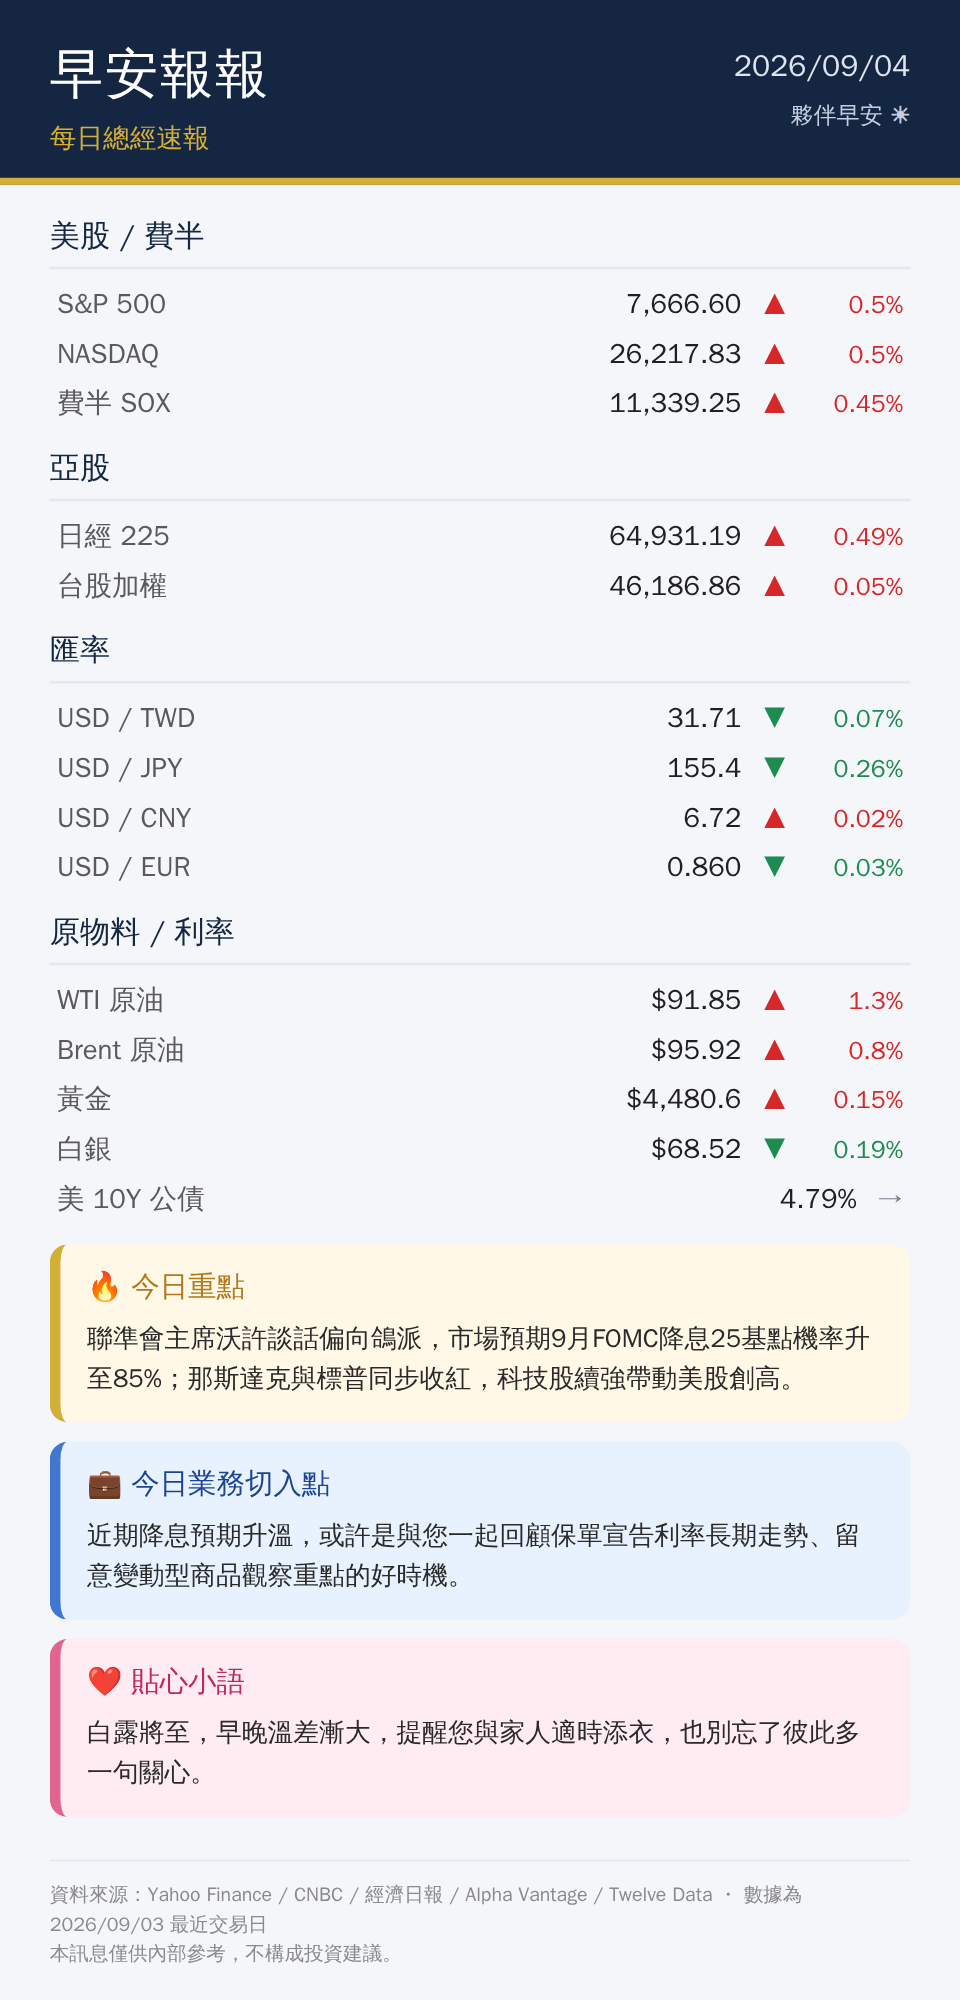
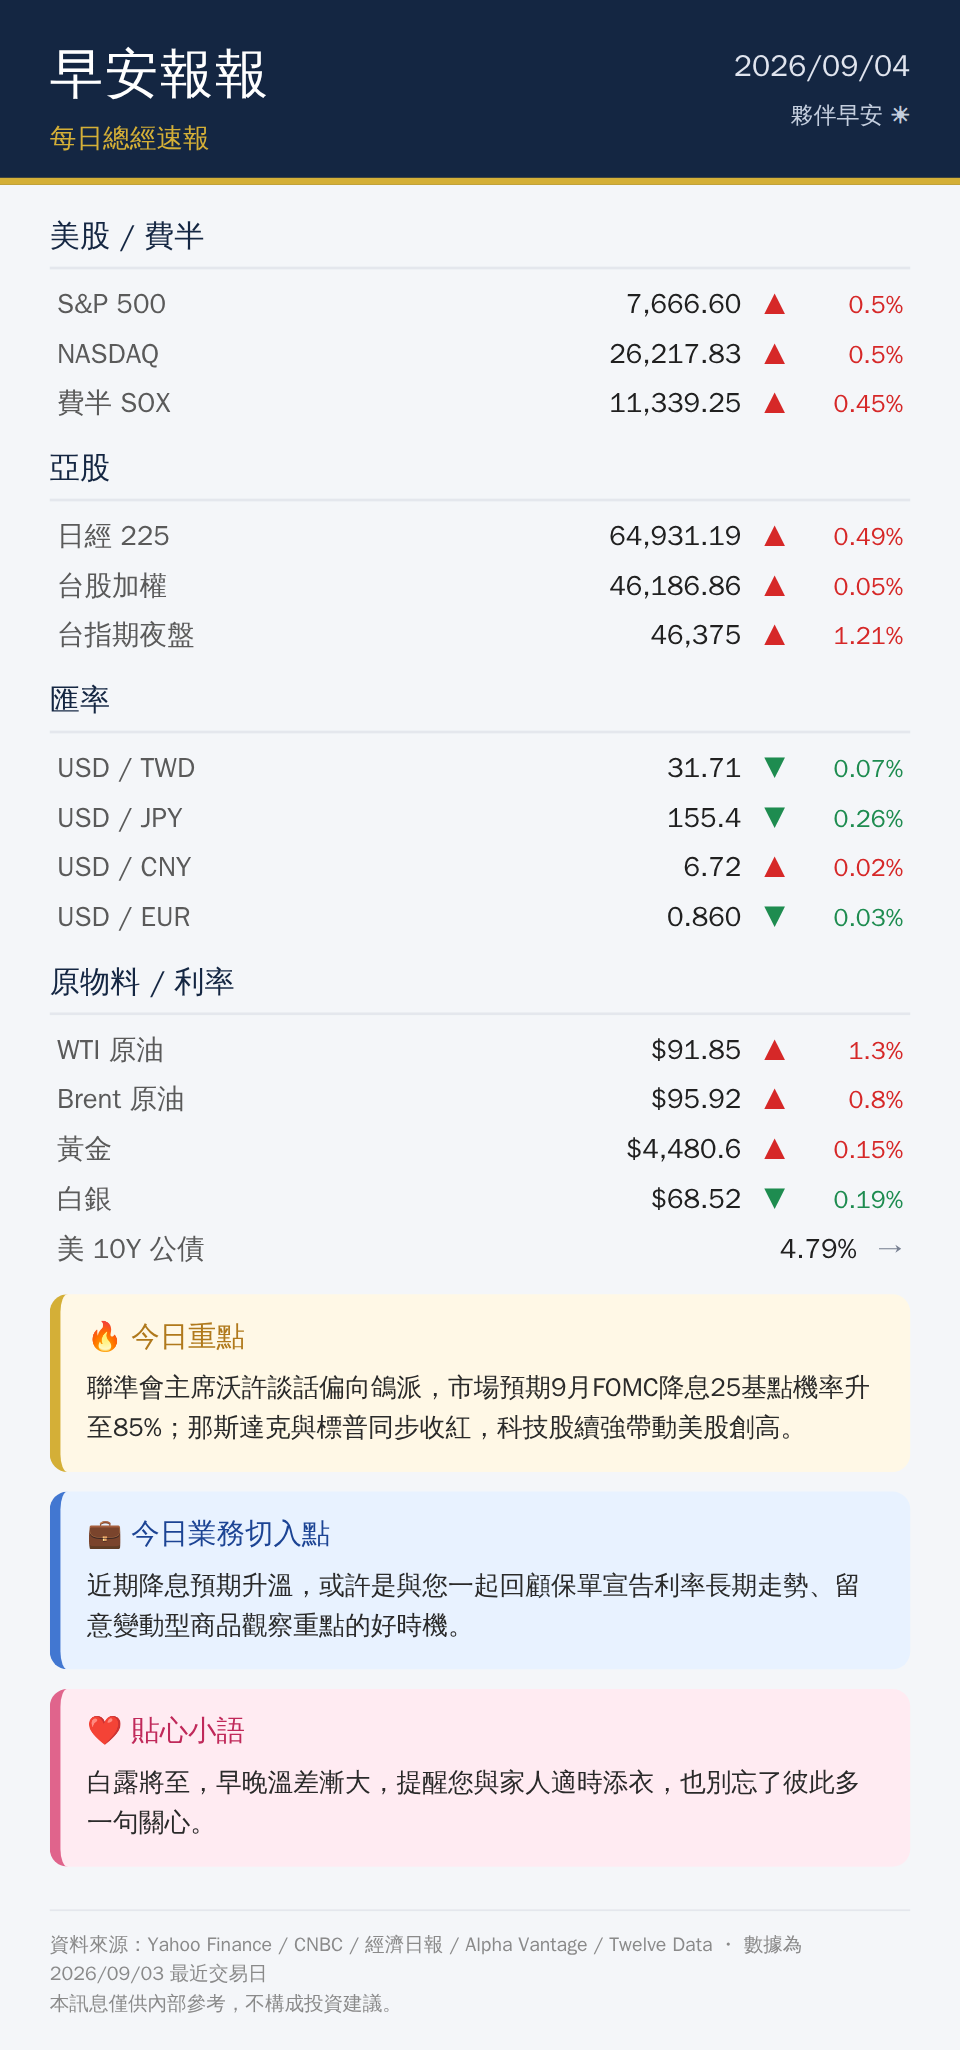
Add TAIEX futures night session to 2026-09-04 report
Claude-Session: https://claude.ai/code/session_01MHiWsRAf5V7KyMx4arzPxT

diff --git a/reports/2026-09-04/card.html b/reports/2026-09-04/card.html
@@ -43,6 +43,6 @@
     <div class="brand-sub">每日總經速報</div>
     <div class="hdr-right"><div class="hdr-date">2026/09/04</div><div class="hdr-hi">夥伴早安 ☀</div></div>
   </div>
-  <div class="body"><div class="sec"><div class="sec-title">美股 / 費半</div><div class="row"><span class="label">S&amp;P 500</span><span class="val">7,666.60</span><span class="arr" style="color:#d62828">▲</span><span class="pct" style="color:#d62828">0.5%</span></div><div class="row"><span class="label">NASDAQ</span><span class="val">26,217.83</span><span class="arr" style="color:#d62828">▲</span><span class="pct" style="color:#d62828">0.5%</span></div><div class="row"><span class="label">費半 SOX</span><span class="val">11,339.25</span><span class="arr" style="color:#d62828">▲</span><span class="pct" style="color:#d62828">0.45%</span></div></div><div class="sec"><div class="sec-title">亞股</div><div class="row"><span class="label">日經 225</span><span class="val">64,931.19</span><span class="arr" style="color:#d62828">▲</span><span class="pct" style="color:#d62828">0.49%</span></div><div class="row"><span class="label">台股加權</span><span class="val">46,186.86</span><span class="arr" style="color:#d62828">▲</span><span class="pct" style="color:#d62828">0.05%</span></div></div><div class="sec"><div class="sec-title">匯率</div><div class="row"><span class="label">USD / TWD</span><span class="val">31.71</span><span class="arr" style="color:#1e8c50">▼</span><span class="pct" style="color:#1e8c50">0.07%</span></div><div class="row"><span class="label">USD / JPY</span><span class="val">155.4</span><span class="arr" style="color:#1e8c50">▼</span><span class="pct" style="color:#1e8c50">0.26%</span></div><div class="row"><span class="label">USD / CNY</span><span class="val">6.72</span><span class="arr" style="color:#d62828">▲</span><span class="pct" style="color:#d62828">0.02%</span></div><div class="row"><span class="label">USD / EUR</span><span class="val">0.860</span><span class="arr" style="color:#1e8c50">▼</span><span class="pct" style="color:#1e8c50">0.03%</span></div></div><div class="sec"><div class="sec-title">原物料 / 利率</div><div class="row"><span class="label">WTI 原油</span><span class="val">$91.85</span><span class="arr" style="color:#d62828">▲</span><span class="pct" style="color:#d62828">1.3%</span></div><div class="row"><span class="label">Brent 原油</span><span class="val">$95.92</span><span class="arr" style="color:#d62828">▲</span><span class="pct" style="color:#d62828">0.8%</span></div><div class="row"><span class="label">黃金</span><span class="val">$4,480.6</span><span class="arr" style="color:#d62828">▲</span><span class="pct" style="color:#d62828">0.15%</span></div><div class="row"><span class="label">白銀</span><span class="val">$68.52</span><span class="arr" style="color:#1e8c50">▼</span><span class="pct" style="color:#1e8c50">0.19%</span></div><div class="row"><span class="label">美 10Y 公債</span><span class="val">4.79%</span><span class="arr" style="color:#788092">→</span></div></div><div class="box box-gold"><div class="box-title">🔥 今日重點</div><div class="box-body">聯準會主席沃許談話偏向鴿派，市場預期9月FOMC降息25基點機率升至85%；那斯達克與標普同步收紅，科技股續強帶動美股創高。</div></div><div class="box box-blue"><div class="box-title">💼 今日業務切入點</div><div class="box-body">近期降息預期升溫，或許是與您一起回顧保單宣告利率長期走勢、留意變動型商品觀察重點的好時機。</div></div><div class="box box-pink"><div class="box-title">❤ 貼心小語</div><div class="box-body">白露將至，早晚溫差漸大，提醒您與家人適時添衣，也別忘了彼此多一句關心。</div></div></div>
+  <div class="body"><div class="sec"><div class="sec-title">美股 / 費半</div><div class="row"><span class="label">S&amp;P 500</span><span class="val">7,666.60</span><span class="arr" style="color:#d62828">▲</span><span class="pct" style="color:#d62828">0.5%</span></div><div class="row"><span class="label">NASDAQ</span><span class="val">26,217.83</span><span class="arr" style="color:#d62828">▲</span><span class="pct" style="color:#d62828">0.5%</span></div><div class="row"><span class="label">費半 SOX</span><span class="val">11,339.25</span><span class="arr" style="color:#d62828">▲</span><span class="pct" style="color:#d62828">0.45%</span></div></div><div class="sec"><div class="sec-title">亞股</div><div class="row"><span class="label">日經 225</span><span class="val">64,931.19</span><span class="arr" style="color:#d62828">▲</span><span class="pct" style="color:#d62828">0.49%</span></div><div class="row"><span class="label">台股加權</span><span class="val">46,186.86</span><span class="arr" style="color:#d62828">▲</span><span class="pct" style="color:#d62828">0.05%</span></div><div class="row"><span class="label">台指期夜盤</span><span class="val">46,375</span><span class="arr" style="color:#d62828">▲</span><span class="pct" style="color:#d62828">1.21%</span></div></div><div class="sec"><div class="sec-title">匯率</div><div class="row"><span class="label">USD / TWD</span><span class="val">31.71</span><span class="arr" style="color:#1e8c50">▼</span><span class="pct" style="color:#1e8c50">0.07%</span></div><div class="row"><span class="label">USD / JPY</span><span class="val">155.4</span><span class="arr" style="color:#1e8c50">▼</span><span class="pct" style="color:#1e8c50">0.26%</span></div><div class="row"><span class="label">USD / CNY</span><span class="val">6.72</span><span class="arr" style="color:#d62828">▲</span><span class="pct" style="color:#d62828">0.02%</span></div><div class="row"><span class="label">USD / EUR</span><span class="val">0.860</span><span class="arr" style="color:#1e8c50">▼</span><span class="pct" style="color:#1e8c50">0.03%</span></div></div><div class="sec"><div class="sec-title">原物料 / 利率</div><div class="row"><span class="label">WTI 原油</span><span class="val">$91.85</span><span class="arr" style="color:#d62828">▲</span><span class="pct" style="color:#d62828">1.3%</span></div><div class="row"><span class="label">Brent 原油</span><span class="val">$95.92</span><span class="arr" style="color:#d62828">▲</span><span class="pct" style="color:#d62828">0.8%</span></div><div class="row"><span class="label">黃金</span><span class="val">$4,480.6</span><span class="arr" style="color:#d62828">▲</span><span class="pct" style="color:#d62828">0.15%</span></div><div class="row"><span class="label">白銀</span><span class="val">$68.52</span><span class="arr" style="color:#1e8c50">▼</span><span class="pct" style="color:#1e8c50">0.19%</span></div><div class="row"><span class="label">美 10Y 公債</span><span class="val">4.79%</span><span class="arr" style="color:#788092">→</span></div></div><div class="box box-gold"><div class="box-title">🔥 今日重點</div><div class="box-body">聯準會主席沃許談話偏向鴿派，市場預期9月FOMC降息25基點機率升至85%；那斯達克與標普同步收紅，科技股續強帶動美股創高。</div></div><div class="box box-blue"><div class="box-title">💼 今日業務切入點</div><div class="box-body">近期降息預期升溫，或許是與您一起回顧保單宣告利率長期走勢、留意變動型商品觀察重點的好時機。</div></div><div class="box box-pink"><div class="box-title">❤ 貼心小語</div><div class="box-body">白露將至，早晚溫差漸大，提醒您與家人適時添衣，也別忘了彼此多一句關心。</div></div></div>
   <div class="foot">資料來源：Yahoo Finance / CNBC / 經濟日報 / Alpha Vantage / Twelve Data ・ 數據為 2026/09/03 最近交易日<br>本訊息僅供內部參考，不構成投資建議。</div>
 </div></body></html>
